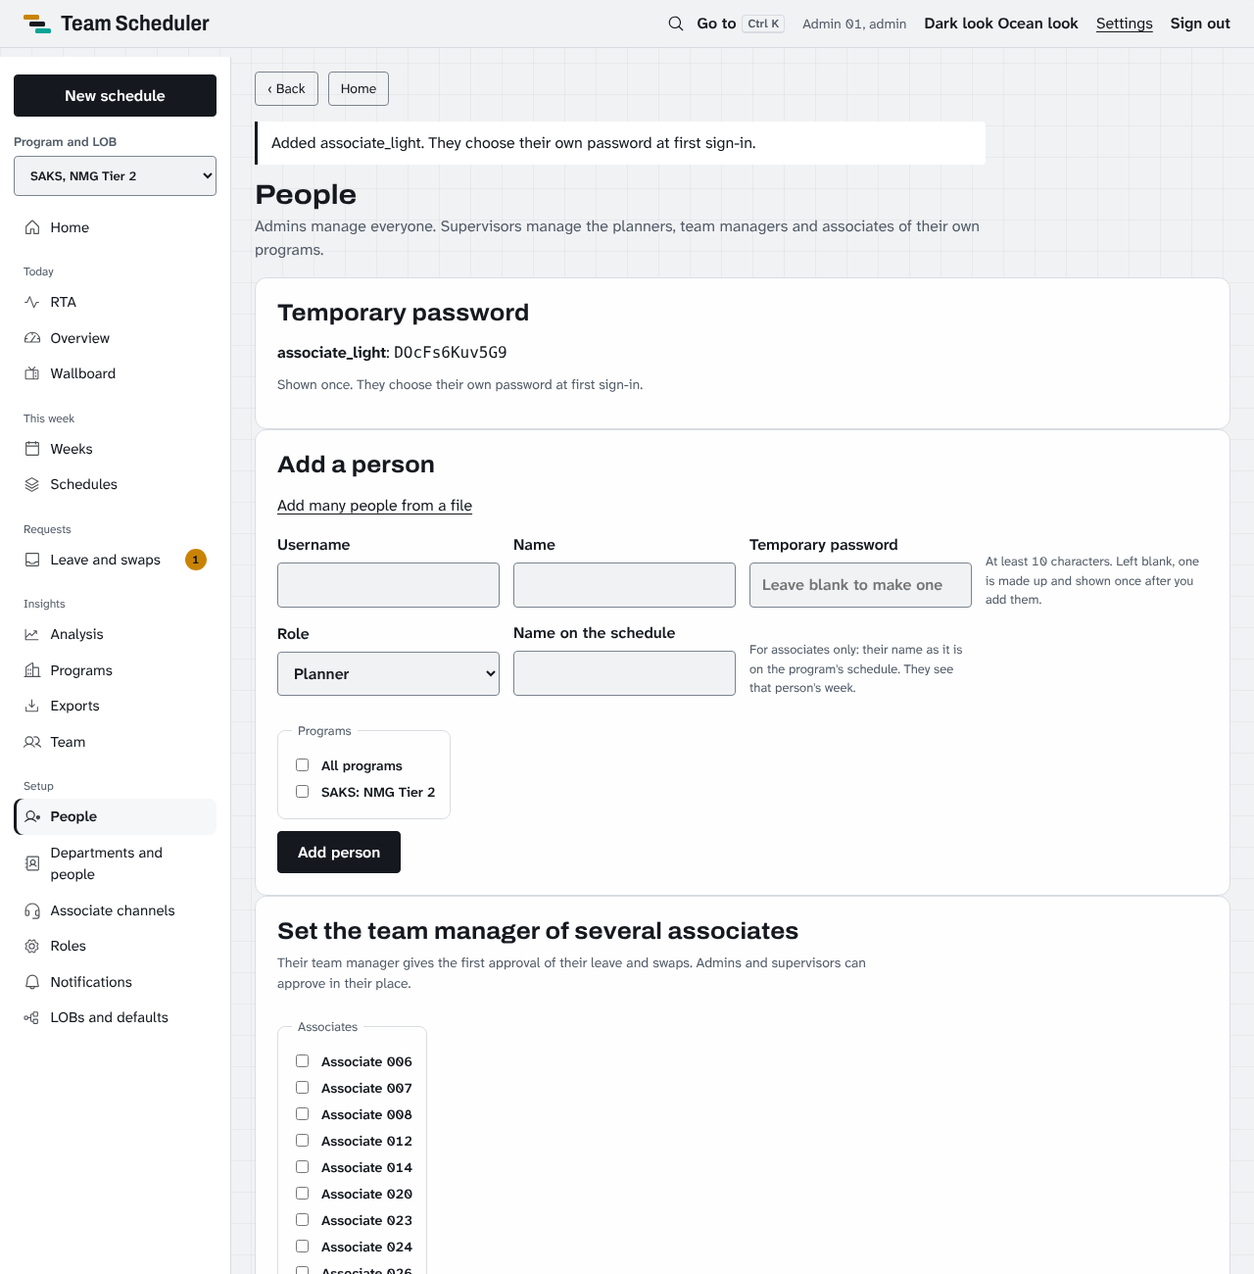
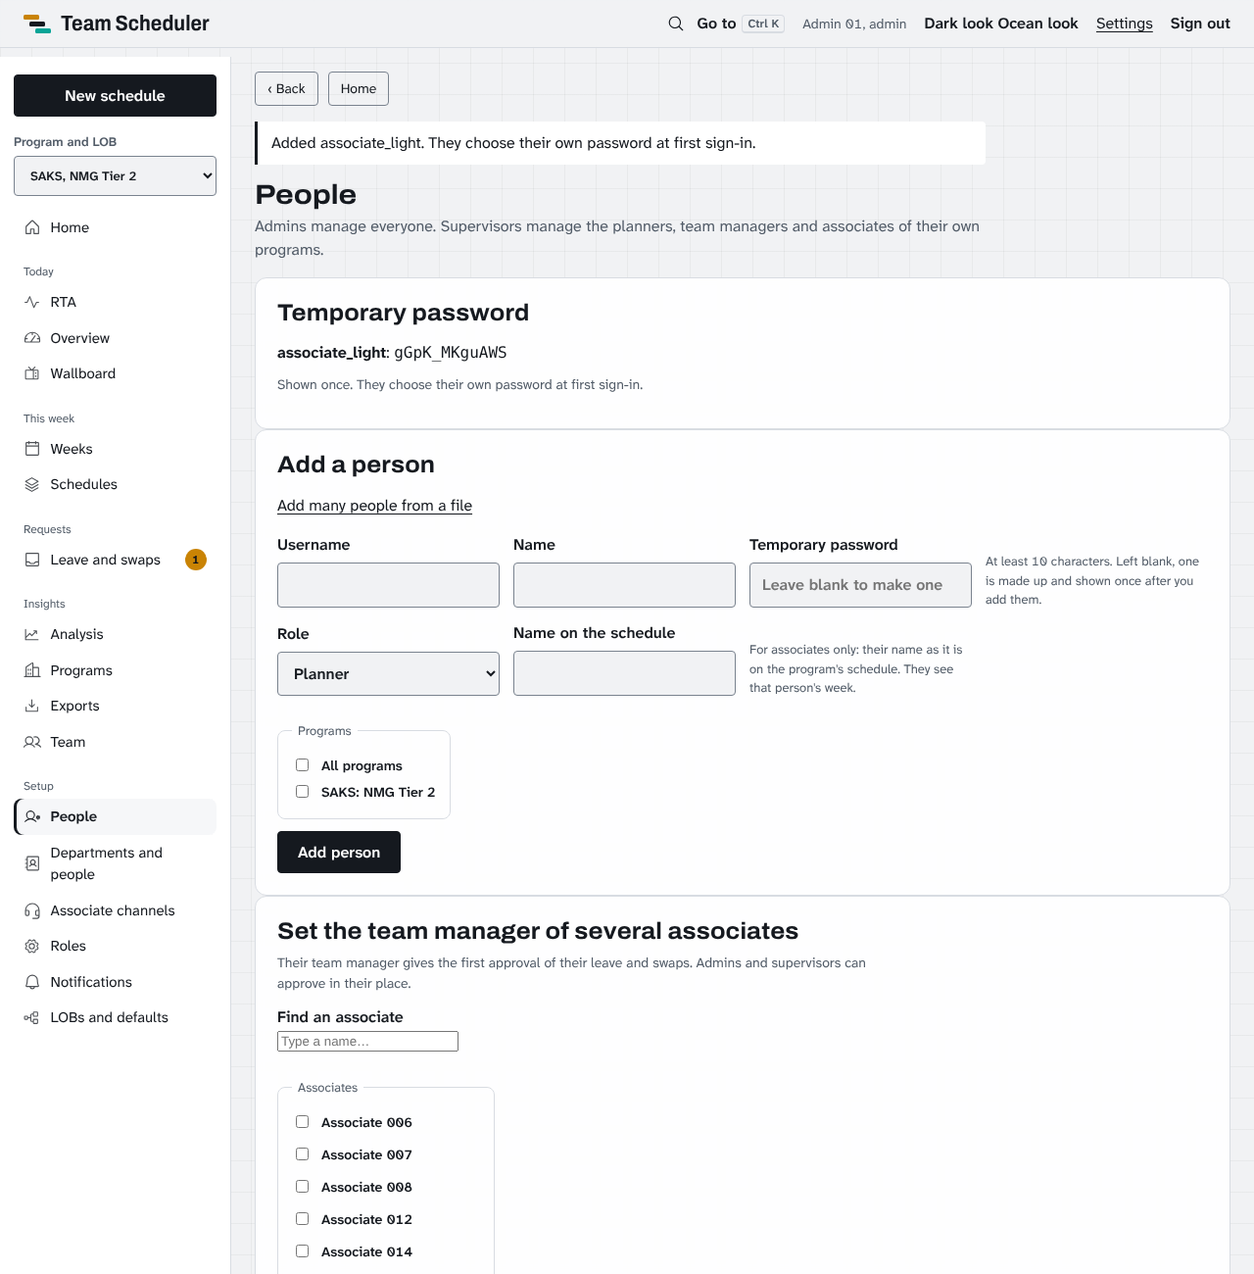
Phase AU: break requests on the RTA tab, associate Today and Weeks tabs, coaching search, bulk and spacing polish
Claude-Session: https://claude.ai/code/session_012jkpuBfug5TnsMSqQWAuNe

Changed region(s): [[0.2188, 0.8, 0.3438, 1.0]]

diff --git a/webapp/templates/requests.html b/webapp/templates/requests.html
@@ -6,37 +6,7 @@
   <p class="byline">{{ label or 'Pick a program' }}. Each associate's team manager approves first (an admin or a supervisor can approve in their place), then the RTA; the RTA's approval changes the schedule in use. A swap needs the team managers of both people.</p>
 </div></div>
 {% if may_change or can_ask_coaching or changes %}<section class="panel req-list" id="changes" aria-labelledby="chg-h">
-  <h2 id="chg-h">Break changes and coaching</h2>
-  {% if can_ask_coaching %}<p><a class="button" href="{{ url_for('requests_coaching', program=unit) }}">Ask for coaching</a></p>{% endif %}
-  {% for r in changes %}
-  <article class="req req-change">
-    <div class="req-who"><b>{{ r.names_list|join(', ') }}</b><small>Asked {{ when(r.asked) }} by {{ r.requester_name }}</small>{% if r.why %}<small>“{{ r.why }}”</small>{% endif %}</div>
-    <div class="req-what">
-      <h3>{{ r.what }}, {{ r.on.strftime('%a %d %b') }}</h3>
-      <p class="req-facts"><span class="lv lv-{{ r.d.level }}">{{ r.d.level|capitalize }} buffer when asked</span></p>
-      {% if r.impact %}<table class="runs small"><caption class="sr-only">What it does to the intervals</caption>
-        <thead><tr><th scope="col">Interval</th><th scope="col">Needed</th><th scope="col">On the floor now</th><th scope="col">After this change</th><th scope="col">Buffer after</th><th scope="col">Off the queue (before, after)</th></tr></thead>
-        <tbody>{% for i in r.impact %}<tr><th scope="row">{{ hm(i.t) }}</th><td>{{ i.need|num }}</td><td>{{ i.before|num }}</td><td>{{ i.after|num }}</td><td><span class="lv lv-{{ i.level }}">{{ i.level|capitalize }} buffer</span>{% if i.level == 'low' %} <small class="slot-warn">short by {{ (0 - i.people_above)|num }}</small>{% endif %}</td><td>{{ i.off_before|round|int }}% to {{ i.off_after|round|int }}%{% if i.off_warn %} <small class="slot-warn">over 30% of the associates on shift off the queue</small>{% endif %}</td></tr>{% endfor %}</tbody></table>{% endif %}
-      {% if not r.impact and r.impact_note %}<p class="req-warn">{{ r.impact_note }}</p>{% endif %}
-      {% if r.other_impact %}<details><summary>If it is {{ 'not billable' if r.d.billable else 'billable' }} instead</summary>
-        <table class="runs small"><thead><tr><th scope="col">Interval</th><th scope="col">After this change</th><th scope="col">Buffer after</th></tr></thead>
-        <tbody>{% for i in r.other_impact %}<tr><th scope="row">{{ hm(i.t) }}</th><td>{{ i.after|num }}</td><td><span class="lv lv-{{ i.level }}">{{ i.level|capitalize }} buffer</span></td></tr>{% endfor %}</tbody></table></details>{% endif %}
-    </div>
-    <div class="req-act">{% if may_change %}
-      <form method="post" action="{{ url_for('request_change_decide', request_id=r.id) }}">
-        <input type="hidden" name="csrf_token" value="{{ csrf_token() }}">
-        {% if r.kind == 'coaching' %}<label>Coaching is <select name="billable"><option value="0"{% if not r.d.billable %} selected{% endif %}>Not billable</option><option value="1"{% if r.d.billable %} selected{% endif %}>Billable</option></select></label>{% endif %}
-        <label>Comment (needed if you reject or change the time) <input name="reason" maxlength="200" autocomplete="off"></label>
-        <button class="primary" name="decision" value="approve"><span class="ico i-check-circle" aria-hidden="true"></span>Approve as asked</button>
-        <button name="decision" value="reject">Reject</button>
-        {% if r.alternatives %}<fieldset class="alts"><legend>Or approve at the nearest time</legend>
-          {% for a in r.alternatives %}<button name="change_at" value="{{ a.start }}">{{ hm(a.start) }} to {{ hm(a.end) }}</button> <span class="lv lv-{{ a.level }}">{{ a.level|capitalize }} buffer</span> <small>{{ a.distance }} minutes from the time asked for</small><br>{% endfor %}
-        </fieldset>{% endif %}
-      </form>{% else %}<p class="hint">The RTA decides.</p>{% endif %}
-    </div>
-  </article>
-  {% else %}<p class="empty">No break change or coaching request is waiting.</p>{% endfor %}
-  {% if changes_decided %}<h3>Decided lately</h3><ul class="log">{% for r in changes_decided %}<li>{{ r.names_list|join(', ') }}: {{ r.what }}, {{ r.on.strftime('%a %d %b') }}: {{ r.status_words }}{% if r.decision %}. “{{ r.decision }}”{% endif %}{% if r.outcome %}. {{ r.outcome }}{% endif %}</li>{% endfor %}</ul>{% endif %}
+  {% include "_change_requests.html" %}
 </section>{% endif %}
 <section class="panel req-list" aria-labelledby="wait-h">
   <h2 id="wait-h">Waiting</h2>

diff --git a/webapp/templates/_change_requests.html b/webapp/templates/_change_requests.html
@@ -1,0 +1,33 @@
+{# © 2026 Omar Mokhtar. All rights reserved. #}
+{# Break changes and coaching waiting for the RTA: on the Requests page and on the RTA tab. Set ``back`` to return to the tab. #}
+  <h2 id="chg-h">Break changes and coaching</h2>
+  {% if can_ask_coaching %}<p><a class="button" href="{{ url_for('requests_coaching', program=unit) }}">Ask for coaching</a></p>{% endif %}
+  {% for r in changes %}
+  <article class="req req-change">
+    <div class="req-who"><b>{{ r.names_list|join(', ') }}</b><small>Asked {{ when(r.asked) }} by {{ r.requester_name }}</small>{% if r.why %}<small>“{{ r.why }}”</small>{% endif %}</div>
+    <div class="req-what">
+      <h3>{{ r.what }}, {{ r.on.strftime('%a %d %b') }}</h3>
+      <p class="req-facts"><span class="lv lv-{{ r.d.level }}">{{ r.d.level|capitalize }} buffer when asked</span></p>
+      {% if r.impact %}<table class="runs small"><caption class="sr-only">What it does to the intervals</caption>
+        <thead><tr><th scope="col">Interval</th><th scope="col">Needed</th><th scope="col">On the floor now</th><th scope="col">After this change</th><th scope="col">Buffer after</th><th scope="col">Off the queue (before, after)</th></tr></thead>
+        <tbody>{% for i in r.impact %}<tr><th scope="row">{{ hm(i.t) }}</th><td>{{ i.need|num }}</td><td>{{ i.before|num }}</td><td>{{ i.after|num }}</td><td><span class="lv lv-{{ i.level }}">{{ i.level|capitalize }} buffer</span>{% if i.level == 'low' %} <small class="slot-warn">short by {{ (0 - i.people_above)|num }}</small>{% endif %}</td><td>{{ i.off_before|round|int }}% to {{ i.off_after|round|int }}%{% if i.off_warn %} <small class="slot-warn">over 30% of the associates on shift off the queue</small>{% endif %}</td></tr>{% endfor %}</tbody></table>{% endif %}
+      {% if not r.impact and r.impact_note %}<p class="req-warn">{{ r.impact_note }}</p>{% endif %}
+      {% if r.other_impact %}<details><summary>If it is {{ 'not billable' if r.d.billable else 'billable' }} instead</summary>
+        <table class="runs small"><thead><tr><th scope="col">Interval</th><th scope="col">After this change</th><th scope="col">Buffer after</th></tr></thead>
+        <tbody>{% for i in r.other_impact %}<tr><th scope="row">{{ hm(i.t) }}</th><td>{{ i.after|num }}</td><td><span class="lv lv-{{ i.level }}">{{ i.level|capitalize }} buffer</span></td></tr>{% endfor %}</tbody></table></details>{% endif %}
+    </div>
+    <div class="req-act">{% if may_change %}
+      <form method="post" action="{{ url_for('request_change_decide', request_id=r.id) }}">
+        <input type="hidden" name="csrf_token" value="{{ csrf_token() }}">{% if back %}<input type="hidden" name="back" value="{{ back }}">{% endif %}
+        {% if r.kind == 'coaching' %}<label>Coaching is <select name="billable"><option value="0"{% if not r.d.billable %} selected{% endif %}>Not billable</option><option value="1"{% if r.d.billable %} selected{% endif %}>Billable</option></select></label>{% endif %}
+        <label>Comment (needed if you reject or change the time) <input name="reason" maxlength="200" autocomplete="off"></label>
+        <button class="primary" name="decision" value="approve"><span class="ico i-check-circle" aria-hidden="true"></span>Approve as asked</button>
+        <button name="decision" value="reject">Reject</button>
+        {% if r.alternatives %}<fieldset class="alts"><legend>Or approve at the nearest time</legend>
+          {% for a in r.alternatives %}<button name="change_at" value="{{ a.start }}">{{ hm(a.start) }} to {{ hm(a.end) }}</button> <span class="lv lv-{{ a.level }}">{{ a.level|capitalize }} buffer</span> <small>{{ a.distance }} minutes from the time asked for</small><br>{% endfor %}
+        </fieldset>{% endif %}
+      </form>{% else %}<p class="hint">The RTA decides.</p>{% endif %}
+    </div>
+  </article>
+  {% else %}<p class="empty">No break change or coaching request is waiting.</p>{% endfor %}
+  {% if changes_decided %}<h3>Decided lately</h3><ul class="log">{% for r in changes_decided %}<li>{{ r.names_list|join(', ') }}: {{ r.what }}, {{ r.on.strftime('%a %d %b') }}: {{ r.status_words }}{% if r.decision %}. “{{ r.decision }}”{% endif %}{% if r.outcome %}. {{ r.outcome }}{% endif %}</li>{% endfor %}</ul>{% endif %}

diff --git a/webapp/templates/me_breaks.html b/webapp/templates/me_breaks.html
@@ -1,19 +1,34 @@
 {# © 2026 Omar Mokhtar. All rights reserved. #}
-{% extends "base.html" %}{% block title %}My breaks on Team Scheduler{% endblock %}
+{% extends "base.html" %}{% block title %}My day on Team Scheduler{% endblock %}
 {% block content %}
 <div class="phead"><div>
-  <h1>My breaks today</h1>
-  <p class="byline"><a href="{{ url_for('me') }}">Back to My week</a>. You can ask the RTA to move a break on the day you are working, up to the end of your shift. The RTA decides.</p>
+  <h1>My day</h1>
+  <p class="byline">{{ user.roster_name }}{% if today %}, {{ today.strftime('%A %d %b') }}{% endif %}. You can ask the RTA to move a break on the day you are working, up to the end of your shift. The RTA decides.</p>
 </div></div>
+{% set here = 'today' %}{% include "_me_tabs.html" %}
 {% if problem %}<p class="error" role="alert">{{ problem }}</p>{% endif %}
 
 {% if not unit %}
-<p class="empty panel">Your name is not on a schedule yet, so there are no breaks to show.</p>
+<p class="empty panel">Your name is not on a schedule yet, so there is nothing to show.</p>
+{% else %}
+<section class="panel me-today" aria-labelledby="today-h">
+  <h2 id="today-h">Today, {{ today.strftime('%A') }}</h2>
+  {% if card %}
+  <b class="me-shift">{{ card.label }}</b>
+  {% set span = card.end - card.start %}
+  <svg class="me-band" viewBox="0 0 {{ span }} 12" preserveAspectRatio="none" role="img" aria-label="Your shift, part by part">{% for p in card.band %}<rect class="b-{{ p.kind }}" x="{{ p.lo - card.start }}" y="0" width="{{ p.hi - p.lo }}" height="12" rx="2"><title>{{ (p.what or 'Working')|capitalize }}, {{ hm(p.lo) }} to {{ hm(p.hi) }}</title></rect>{% endfor %}</svg>
+  <p class="me-ends"><span>{{ hm(card.start) }}</span><span>{{ hm(card.end) }}</span></p>
+  {% if card.status != 'Present' %}<p class="me-said">Recorded today: {{ card.status|lower }}.</p>{% endif %}
+  <p class="me-said">{{ card.said }}</p>
+  {% else %}<p class="me-said">You do not work today.</p>{% endif %}
+</section>
+{% endif %}
+{% if not unit %}
 {% elif not found %}
 <p class="empty panel">You have no shift running or still to come today, so there is no break to change.</p>
 {% else %}
-<section class="panel" aria-labelledby="today-h">
-  <h2 id="today-h">Your shift, {{ found.label }}{% if found.on != today %} (started {{ found.on.strftime('%a %d %b') }}){% endif %}</h2>
+<section class="panel" aria-labelledby="shift-h">
+  <h2 id="shift-h">Your shift, {{ found.label }}{% if found.on != today %} (started {{ found.on.strftime('%a %d %b') }}){% endif %}</h2>
   <table class="runs small">
     <thead><tr><th scope="col">Break</th><th scope="col">Planned</th><th scope="col">Now</th><th scope="col">Length</th><th scope="col"><span class="sr-only">Change</span></th></tr></thead>
     <tbody>{% for b in seg.breaks %}<tr><th scope="row">{{ b.kind }}</th><td>{{ hm(b.planned_start) }}</td><td>{{ hm(b.start) }}{% if b.moved %} (moved){% endif %}</td><td>{{ b.minutes }} min</td>

diff --git a/webapp/templates/day.html b/webapp/templates/day.html
@@ -125,6 +125,7 @@
     {% if not merged %}<a href="{{ url_for('day_page', program=program, date=on.isoformat(), measure=measure, view='meeting') }}"{% if tab == 'meeting' %} class="on" aria-current="page"{% endif %}>Find a time</a>
     <a href="{{ url_for('day_page', program=program, date=on.isoformat(), measure=measure, view='cover') }}"{% if tab == 'cover' %} class="on" aria-current="page"{% endif %}>Overtime and VTO</a>{% endif %}
     {% if v.channels and not merged %}<a href="{{ url_for('day_page', program=program, date=on.isoformat(), measure=measure, view='channels') }}"{% if tab == 'channels' %} class="on" aria-current="page"{% endif %}>Channels</a>{% endif %}
+    {% if not merged %}<a href="{{ url_for('day_page', program=program, date=on.isoformat(), measure=measure, view='requests') }}"{% if tab == 'requests' %} class="on" aria-current="page"{% endif %}>Requests{% if changes_n %} <span class="count">{{ changes_n }}</span>{% endif %}</a>{% endif %}
   </nav>
   <form class="sel" method="get" action="{{ url_for('day_page') }}">
     <input type="hidden" name="program" value="{{ program }}"><input type="hidden" name="date" value="{{ on.isoformat() }}"><input type="hidden" name="view" value="{{ tab }}">{% if merged %}<input type="hidden" name="merge" value="1">{% endif %}
@@ -446,6 +447,10 @@
   <ul class="log">{% for lane in v.lanes %}{% for seg in lane.segments if seg.offset == 0 %}{% for a in seg.activities %}{% set _ = listed.append(1) %}<li><b>{{ lane.name }}, {% if a.kind == 'Called in' %}Day off cancelled: called in {{ hm(a.start) }} - {{ hm(a.end) }}{% elif a.kind == 'Overtime' %}Overtime {{ hm(a.start) }} to {{ hm(a.end) }}{% elif a.kind == 'VTO' %}VTO {{ hm(a.start) }} to {{ hm(a.end) }}{% elif a.kind in ('Break', 'Lunch') %}{{ a.kind }} {{ hm(a.start) }} to {{ hm(a.end) }}, added today{% else %}{{ a.kind }} {{ hm(a.start) }} to {{ hm(a.end) }} ({{ 'billable' if a.billable else 'non-billable' }}){{ with_text(a.with_whom, a.why, a.with_dept) }}{% endif %}</b>
     <form method="post" action="{{ url_for('day_activity_cancel') }}" class="inline"><input type="hidden" name="csrf_token" value="{{ csrf_token() }}">{{ zone_fields() }}<input type="hidden" name="program" value="{{ program }}"><input type="hidden" name="date" value="{{ on.isoformat() }}"><input type="hidden" name="id" value="{{ a.id }}"><input type="hidden" name="view" value="cover"><button type="submit" class="link danger">Delete</button></form></li>{% endfor %}{% endfor %}{% endfor %}</ul>
   {% if not listed %}<p class="empty">No meetings, training, overtime or VTO recorded for this day.</p>{% endif %}
+</section>
+{% elif tab == 'requests' %}
+<section class="panel req-list" id="changes" aria-labelledby="chg-h">
+  {% include "_change_requests.html" %}
 </section>
 {% elif tab == 'adherence' %}
 <section class="tiles" aria-label="Adherence in numbers">

diff --git a/webapp/templates/me.html b/webapp/templates/me.html
@@ -1,23 +1,12 @@
 {# © 2026 Omar Mokhtar. All rights reserved. #}
-{% extends "base.html" %}{% block title %}My week on Team Scheduler{% endblock %}
+{% extends "base.html" %}{% block title %}My weeks on Team Scheduler{% endblock %}
 {% block content %}
 <div class="phead"><div>
-  <h1>My week</h1>
+  <h1>My weeks</h1>
   <p class="byline">{{ user.roster_name }}{% if week %}, {{ week[0].date.strftime('%d %b') }} to {{ week[-1].date.strftime('%d %b') }}{% endif %}</p>
 </div></div>
+{% set here = 'weeks' %}{% include "_me_tabs.html" %}
 {% if unit %}
-<section class="panel me-today" aria-labelledby="today-h">
-  <h2 id="today-h">Today, {{ today.strftime('%A') }}</h2>
-  {% if card %}
-  <b class="me-shift">{{ card.label }}</b>
-  {% set span = card.end - card.start %}
-  <svg class="me-band" viewBox="0 0 {{ span }} 12" preserveAspectRatio="none" role="img" aria-label="Your shift, part by part">{% for p in card.band %}<rect class="b-{{ p.kind }}" x="{{ p.lo - card.start }}" y="0" width="{{ p.hi - p.lo }}" height="12" rx="2"><title>{{ (p.what or 'Working')|capitalize }}, {{ hm(p.lo) }} to {{ hm(p.hi) }}</title></rect>{% endfor %}</svg>
-  <p class="me-ends"><span>{{ hm(card.start) }}</span><span>{{ hm(card.end) }}</span></p>
-  {% if card.status != 'Present' %}<p class="me-said">Recorded today: {{ card.status|lower }}.</p>{% endif %}
-  <p class="me-said">{{ card.said }}</p>
-  <p><a href="{{ url_for('me_breaks') }}">See my breaks and ask to move one</a></p>
-  {% else %}<p class="me-said">You do not work today.</p>{% endif %}
-</section>
 <section class="panel" aria-labelledby="week-h">
   <h2 id="week-h">The week</h2>
   {% if weeks|length > 1 %}<form method="get" action="{{ url_for('me') }}" class="me-form"><label>Week <select name="week" data-autosubmit>{% for w in weeks %}<option value="{{ w.isoformat() }}"{% if w == shown %} selected{% endif %}>{{ week_labels[w.isoformat()] }}</option>{% endfor %}</select></label><noscript><button>Show the week</button></noscript></form>{% endif %}

diff --git a/webapp/templates/admin_users.html b/webapp/templates/admin_users.html
@@ -39,7 +39,8 @@
   <h2 id="team-h">Set the team manager of several associates</h2>
   <p class="note">Their team manager gives the first approval of their leave and swaps. Admins and supervisors can approve in their place.</p>
   <form method="post" action="{{ url_for('admin_users_team') }}" class="people-form"><input type="hidden" name="csrf_token" value="{{ csrf_token() }}">
-    <fieldset class="exp-kinds"><legend>Associates</legend>{% for u in managed %}<label class="exp-kind"><input type="checkbox" name="who" value="{{ u.id }}" data-programs="{{ u.program_ids|join(' ') }}"> {{ u.roster_name or u.display_name }}{% if u.team_manager %} <small>({{ u.team_manager }})</small>{% endif %}</label>{% endfor %}</fieldset>
+    <label>Find an associate <input type="search" data-filter="team-list" autocomplete="off" placeholder="Type a name…"></label>
+    <fieldset class="exp-kinds pick-list" id="team-list"><legend>Associates <span class="hint" data-count-for="team-list" aria-live="polite"></span></legend>{% for u in managed %}<label class="exp-kind"><input type="checkbox" name="who" value="{{ u.id }}" data-programs="{{ u.program_ids|join(' ') }}"> {{ u.roster_name or u.display_name }}{% if u.team_manager %} <small>({{ u.team_manager }})</small>{% endif %}</label>{% endfor %}</fieldset>
     <label>Team manager <select name="team_manager"><option value="">None</option>{% for t in leaders %}<option value="{{ t.id }}" data-programs="{{ 'all' if t.all_programs or t.is_admin else t.program_ids|join(' ') }}">{{ t.display_name }}</option>{% endfor %}</select></label>
     <button class="primary">Set team manager</button>
   </form>

diff --git a/webapp/templates/admin_users_bulk.html b/webapp/templates/admin_users_bulk.html
@@ -32,9 +32,9 @@
   <h2 id="check-h">Checked: {{ good }} of {{ plan|length }} rows can be added</h2>
   <div class="scroll" role="region" tabindex="0" aria-label="The rows of your file (scrolls sideways)">
     <table class="runs small">
-      <thead><tr><th scope="col">Row</th><th scope="col">Username</th><th scope="col">Name</th><th scope="col">Role</th><th scope="col">Programs</th><th scope="col">Password</th><th scope="col">Result</th></tr></thead>
+      <thead><tr><th scope="col">Row</th><th scope="col">Username</th><th scope="col">Name</th><th scope="col">Role</th><th scope="col">Programs</th><th scope="col">Result</th></tr></thead>
       <tbody>{% for p in plan %}<tr><td>{{ p.n }}</td><td>{{ p.typed }}</td><td>{{ p.display_name }}</td><td>{{ roles.get(p.kind, p.role) }}</td>
-        <td>{{ 'All programs' if p.everything else p.programs }}</td><td>{{ 'In your file' if p.has_password else 'Made up' }}</td>
+        <td>{{ 'All programs' if p.everything else p.programs }}</td>
         <td>{% if p.problems %}<span class="gap-ink">Left out: {{ p.problems|join(' ') }}</span>{% else %}Ready{% endif %}</td></tr>{% endfor %}</tbody>
     </table>
   </div>

diff --git a/webapp/static/app.css b/webapp/static/app.css
@@ -1554,3 +1554,10 @@ table.hours tfoot th, table.hours tfoot td { border-top: 1px solid var(--rail); 
 .req-change .alts { flex: 1 1 100%; order: 4; border: 0; padding: 0; margin: 4px 0 0; display: flex; flex-wrap: wrap; align-items: center; gap: 6px 12px; min-width: 0; }
 .req-change .alts legend { padding: 0; margin-bottom: 4px; color: var(--dim); font-size: 0.8125rem; }
 @media (max-width: 720px) { .req-change { grid-template-columns: minmax(0, 1fr); } }
+.tabs a .count { margin-left: 4px; min-width: 1.4rem; padding: 0 6px; border-radius: 999px; background: var(--short); color: #10141B; font-size: 0.75rem; font-weight: 700; text-align: center; display: inline-block; line-height: 1.4rem; }
+.pick-list { max-height: 16rem; overflow-y: auto; display: grid; grid-template-columns: repeat(auto-fill, minmax(12rem, 1fr)); column-gap: 16px; }
+.pick-list legend { grid-column: 1 / -1; }
+.pick-list .exp-kind[hidden] { display: none; }
+/* Phase AU: a note under a table or a form keeps its distance */
+.scroll + .note, .scroll + p, .people-form + .note, .setup-defaults .note { margin-top: 12px; }
+.setup-defaults button + .note { display: block; }

diff --git a/webapp/static/app.js b/webapp/static/app.js
@@ -1467,4 +1467,24 @@ function homeRefresh(now) {
     bulk.addEventListener("change", narrow);
     narrow();
   }
+  // Phase AU: a long list of people with a search box (data-filter names the list) and a count of those ticked
+  Array.prototype.forEach.call(document.querySelectorAll("input[data-filter]"), function (box) {
+    var list = document.getElementById(box.getAttribute("data-filter"));
+    if (!list) { return; }
+    var count = document.querySelector("[data-count-for='" + list.id + "']");
+    var tally = function () {
+      if (count) {
+        var n = list.querySelectorAll("input[type='checkbox']:checked").length;
+        count.textContent = n ? n + " picked" : "";
+      }
+    };
+    box.addEventListener("input", function () {
+      var text = box.value.trim().toLowerCase();
+      Array.prototype.forEach.call(list.querySelectorAll(".exp-kind"), function (row) {
+        row.hidden = text !== "" && row.textContent.toLowerCase().indexOf(text) === -1;
+      });
+    });
+    list.addEventListener("change", tally);
+    tally();
+  });
 })();

diff --git a/webapp/templates/requests_coaching.html b/webapp/templates/requests_coaching.html
@@ -9,7 +9,8 @@
   <h2 id="who-h">Who and when</h2>
   <form method="get" action="{{ url_for('requests_coaching') }}" class="people-form">
     <input type="hidden" name="program" value="{{ unit }}">
-    <fieldset class="exp-kinds"><legend>Associates</legend>
+    <label>Find an associate <input type="search" data-filter="coach-list" autocomplete="off" placeholder="Type a name…"></label>
+    <fieldset class="exp-kinds pick-list" id="coach-list"><legend>Associates <span class="hint" data-count-for="coach-list" aria-live="polite"></span></legend>
       {% for n in roster %}<label class="exp-kind"><input type="checkbox" name="who" value="{{ n }}"{% if n in names %} checked{% endif %}> {{ n }}</label>{% endfor %}
     </fieldset>
     <label>Day <input type="date" name="date" value="{{ on.isoformat() }}"></label>

diff --git a/webapp/templates/base.html b/webapp/templates/base.html
@@ -40,7 +40,8 @@
 <aside class="leftnav" aria-label="Pages">
   <details class="menu" open data-menu><summary>Menu</summary>
   {% if user.is_associate %}<nav aria-label="Main">
-    {{ navlink('me', url_for('me'), 'My week') }}
+    {{ navlink('me_day', url_for('me_breaks'), 'My day') }}
+    {{ navlink('me', url_for('me'), 'My weeks') }}
   </nav>{% else %}
   {% if can('runs') %}<a class="button primary newrun" href="{{ url_for('home', program=nav_unit or none) }}#newrun">New schedule</a>{% endif %}
   {% if nav_units %}<label class="unitpick">Program and LOB

diff --git a/webapp/templates/_me_tabs.html b/webapp/templates/_me_tabs.html
@@ -1,0 +1,5 @@
+{# © 2026 Omar Mokhtar. All rights reserved. #}
+<nav class="tabs" aria-label="My pages">
+  <a href="{{ url_for('me_breaks') }}"{% if here == 'today' %} class="on" aria-current="page"{% endif %}>Today</a>
+  <a href="{{ url_for('me') }}"{% if here == 'weeks' %} class="on" aria-current="page"{% endif %}>Weeks</a>
+</nav>
